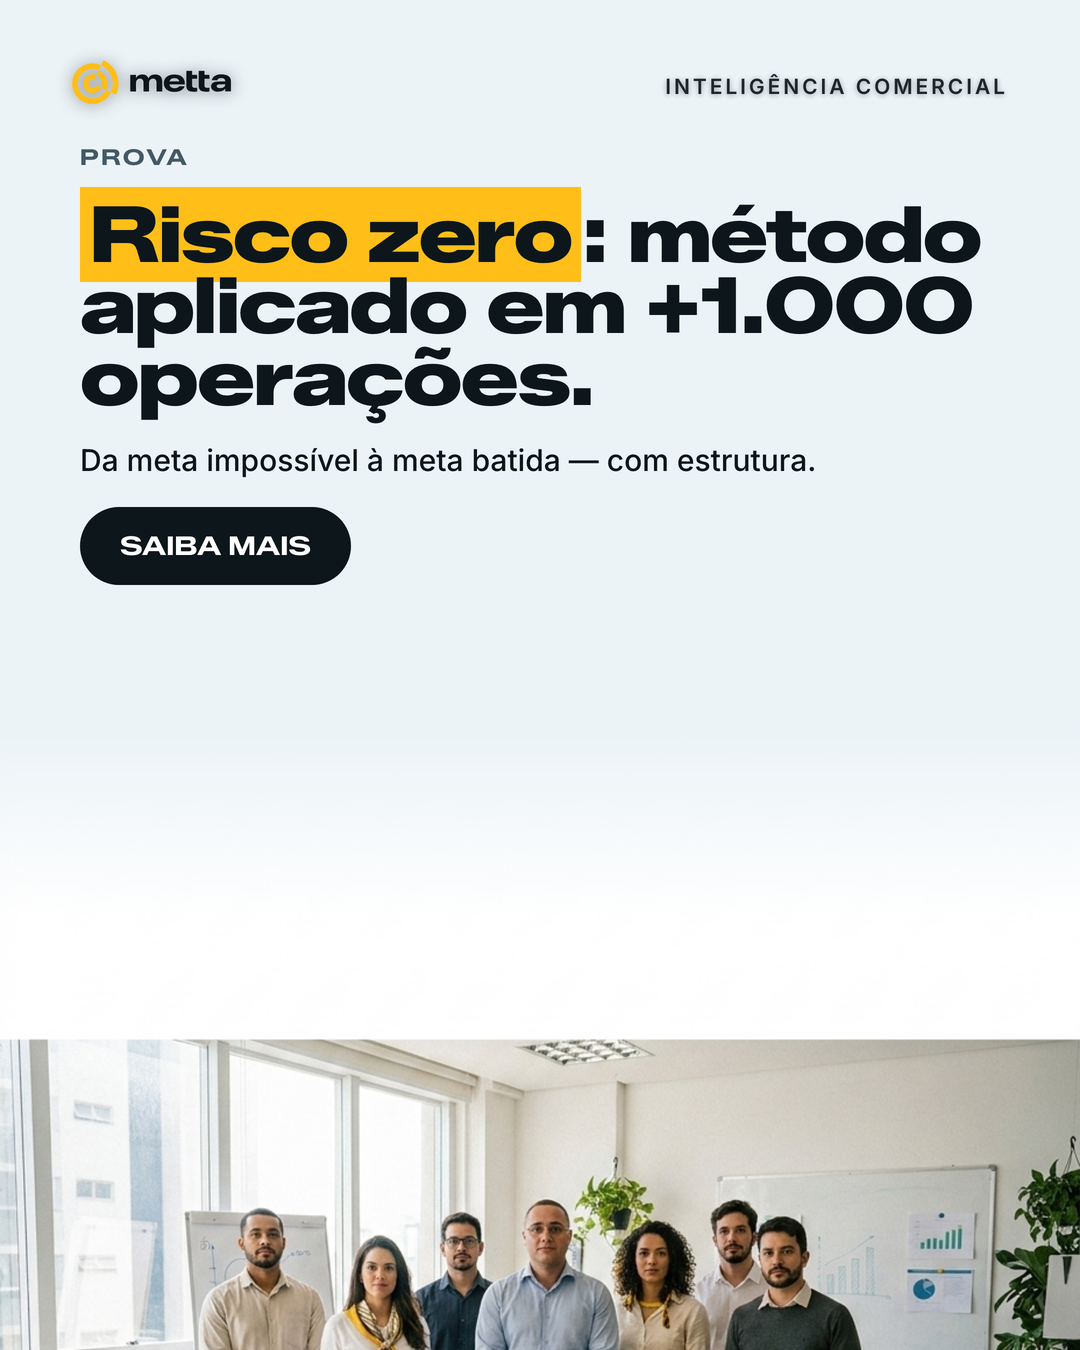
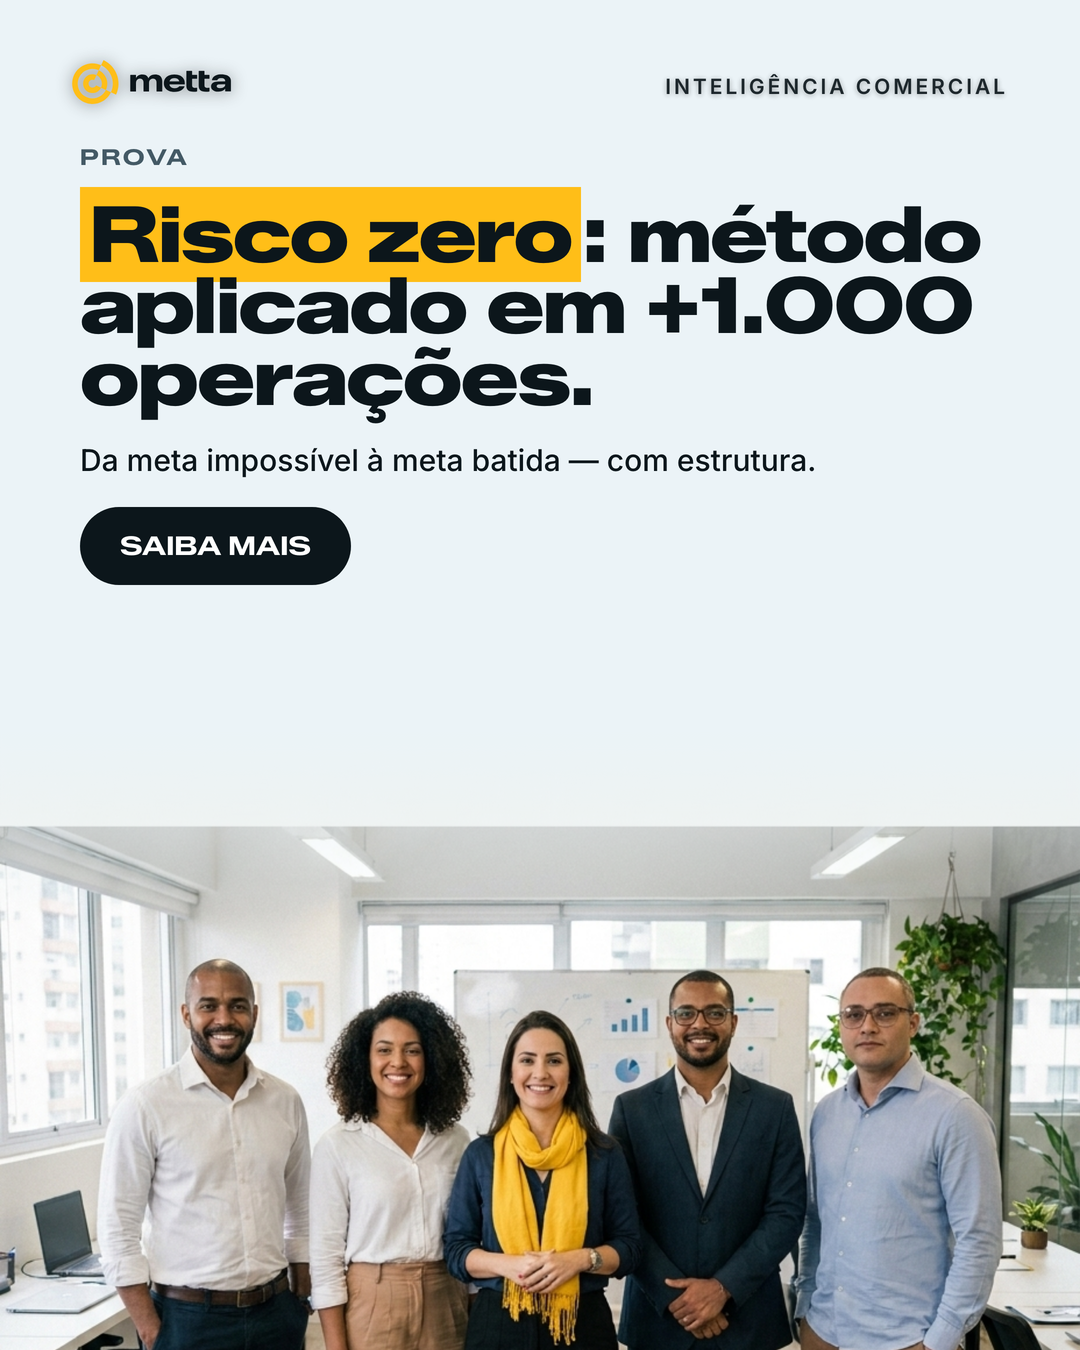
fix(imagem): revisa TODAS as cenas dos posts simulados pra ilustrar o conceito
Sofia apontou que "eu quero você fora" com um empresário só de pé não tinha
sentido — sujeito decorativo, não ilustra a copy. Corrigido em TODAS as 6
peças (não só a apontada), cada cena agora visualiza o conceito da headline:

- A: empresário saindo por porta iluminada (não retrato parado)
- YELLOW-SPLIT: balcão vira jaula literal, porta/liberdade ao fundo
- D: diagrama técnico saindo do vendedor (engenharia reversa visível)
- NEWS-CARD: corrige composição — time inteiro visível, sem corte

diff --git a/render_out/nano-banana-comparisons/README.md b/render_out/nano-banana-comparisons/README.md
@@ -10,13 +10,18 @@ Cada `sim-<id>.png` é o post `<id>` de `data/applications-index.json`
 paleta/grão/tratamento) + copy real → `_blueprint_render` (motor de layout
 real). Comparar com o post real em `assets/applications/ads/thumbs/<id>.webp`.
 
-Lição validada aqui: a cena tem que **ilustrar o conceito** da copy, não pôr
-um sujeito decorativo (`sim-ad-a-eu-quero-voce-fora.png` é a versão conceitual
-— empresário saindo pela porta iluminada, não um retrato parado).
+Lição validada aqui (v2, todas as 6 peças revisadas com essa lógica): a cena
+tem que **ilustrar o conceito** da copy, nunca um sujeito decorativo.
 
-Ressalva conhecida: `sim-ad-news-card-risco-zero-varejo.png` saiu com o
-sujeito cortado na faixa inferior — pendência de composição (corrigir via
-guia de cena melhor ou o recompositor full-bleed de `backup/vision-first`).
+- `A-headline-foto-dark` ("eu quero você fora") → empresário saindo por uma
+  porta iluminada, não um retrato parado.
+- `YELLOW-SPLIT` ("a chave da liberdade não está no balcão") → o balcão vira
+  literalmente uma jaula de madeira, porta iluminada ao fundo fora de alcance.
+- `D-foto-fullbleed-overlay` ("engenharia reversa do vendedor") → diagrama
+  técnico/blueprint saindo do vendedor como um raio-x do processo.
+- `NEWS-CARD` (composição corrigida) → time inteiro visível, sem corte.
+- `LIGHT-SURREAL` e `B-foto-top-headline-mixed` já eram conceituais desde a
+  v1 (pedra esmagando saúde; dono-funcionário no próprio caixa).
 
 ## `carrossel-motores/`
 
